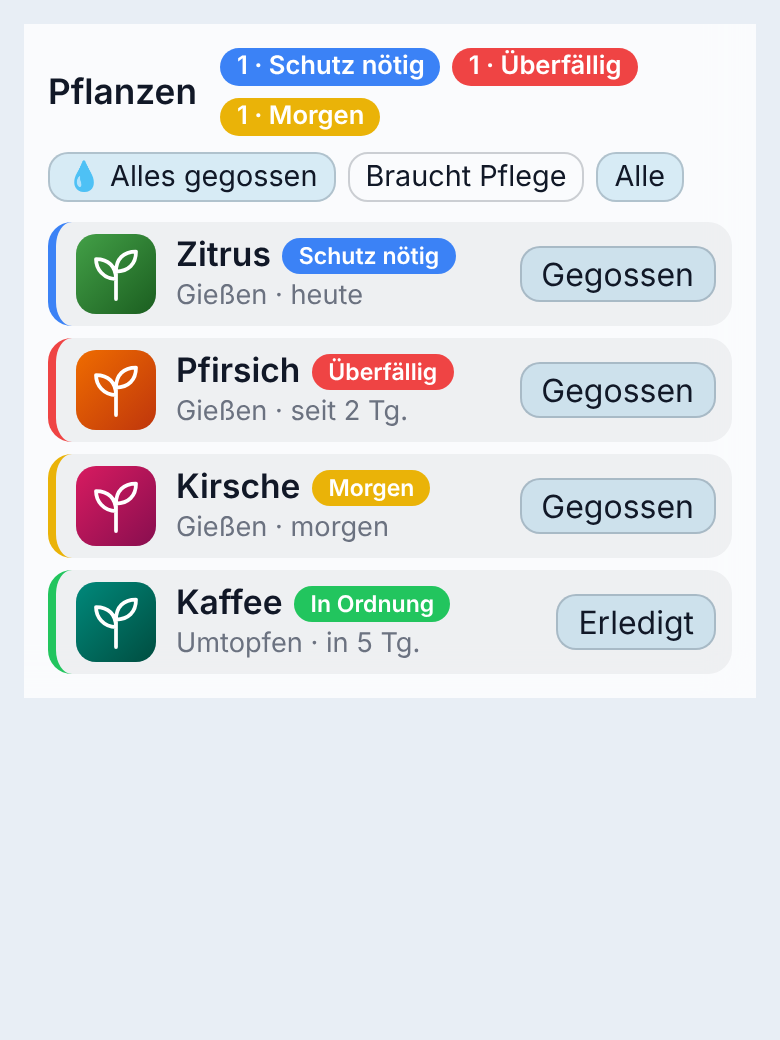
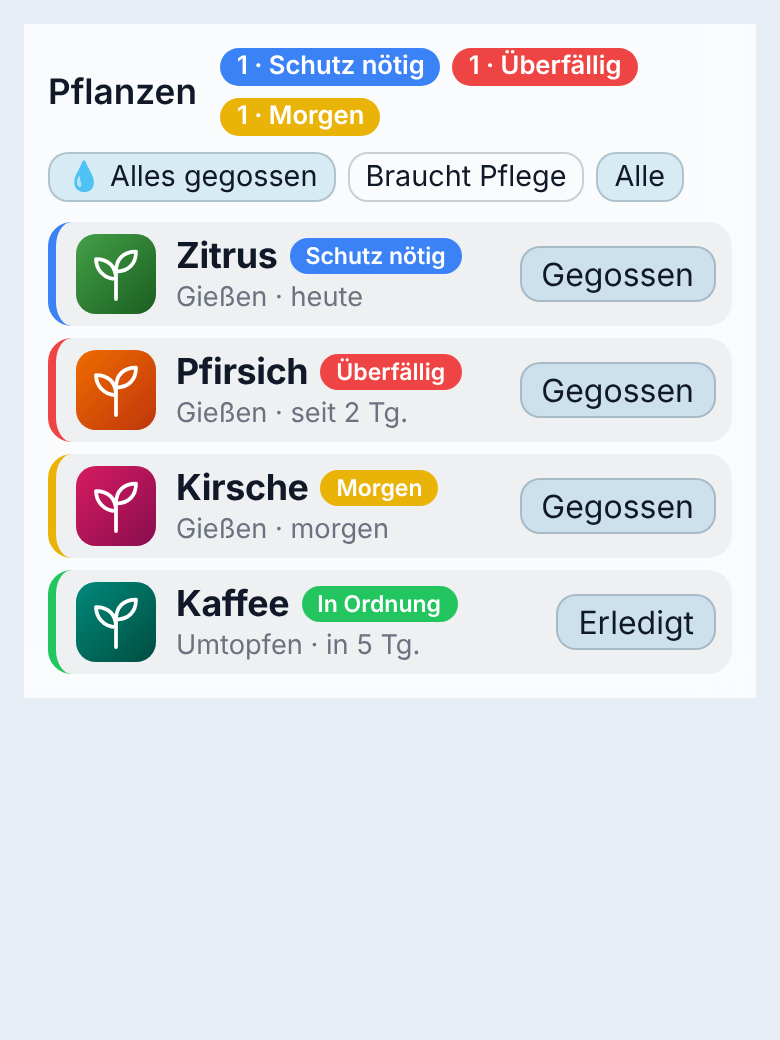
Card: compact tile redesign, flat option, equal-height tiles
Claude-Session: https://claude.ai/code/session_01XDKhdpbGErx8Smh2Ru9UdD

diff --git a/custom_components/rootine/frontend/rootine-card.js b/custom_components/rootine/frontend/rootine-card.js
@@ -17,7 +17,7 @@ const T = {
     reason: { cold_now: "zu kalt", cold_forecast: "Kälte erwartet", heat_now: "zu heiß",
       heat_forecast: "Hitze erwartet", drop: "Wert stark gefallen", stale: "meldet nicht",
       battery_low: "Batterie schwach" },
-    done: "Erledigt", noFertilize: "Düngen", noFertilizeHint: "nicht nötig", noOther: "Weitere Aufgaben", tabOverview: "Übersicht", tabCare: "Pflege", tabLog: "Verlauf", tabProfile: "Steckbrief", noCare: "Noch keine Pflegetexte. Unter „Bearbeiten“ ergänzen.", noOtherHint: "keine", water: "Gegossen", fertilize: "Gedüngt", postpone: "Verschieben",
+    done: "Erledigt", tabOverview: "Übersicht", tabCare: "Pflege", tabLog: "Verlauf", tabProfile: "Steckbrief", noCare: "Noch keine Pflegetexte. Unter „Bearbeiten“ ergänzen.", water: "Gegossen", fertilize: "Gedüngt", postpone: "Verschieben",
     days: (n) => (n === 0 ? "heute" : n === 1 ? "morgen" : n < 0 ? `seit ${-n} Tg.` : `in ${n} Tg.`),
     details: "Details", close: "Schließen", edit: "Bearbeiten", save: "Speichern", cancel: "Abbrechen",
     photo: "Foto ändern", history: "Verlauf", undo: "Rückgängig", undone: "rückgängig",
@@ -45,7 +45,7 @@ const T = {
     reason: { cold_now: "too cold", cold_forecast: "cold expected", heat_now: "too hot",
       heat_forecast: "heat expected", drop: "value dropped", stale: "not reporting",
       battery_low: "battery low" },
-    done: "Done", noFertilize: "Fertilize", noFertilizeHint: "not needed", noOther: "Other tasks", tabOverview: "Overview", tabCare: "Care", tabLog: "History", tabProfile: "Profile", noCare: "No care notes yet. Add them under Edit.", noOtherHint: "none", water: "Watered", fertilize: "Fertilized", postpone: "Postpone",
+    done: "Done", tabOverview: "Overview", tabCare: "Care", tabLog: "History", tabProfile: "Profile", noCare: "No care notes yet. Add them under Edit.", water: "Watered", fertilize: "Fertilized", postpone: "Postpone",
     days: (n) => (n === 0 ? "today" : n === 1 ? "tomorrow" : n < 0 ? `${-n}d overdue` : `in ${n}d`),
     details: "Details", close: "Close", edit: "Edit", save: "Save", cancel: "Cancel",
     photo: "Change photo", history: "History", undo: "Undo", undone: "undone",
@@ -107,34 +107,60 @@ ha-card { padding: 12px; overflow: hidden; background: var(--ha-card-background,
 .head { display: flex; flex-wrap: wrap; align-items: center; gap: 8px 12px; margin-bottom: 10px; }
 .head .summary { flex: 1; }
 .head h2 { margin: 0; font-size: 1.1em; font-weight: 600; }
-.grid { display: grid; grid-template-columns: repeat(auto-fit, minmax(330px, 1fr)); gap: 10px; }
-.plant { --accent: var(--primary-color); position: relative; display: flex; flex-direction: column; gap: 8px; padding: 12px 12px 10px 16px; border-radius: 16px; overflow: hidden;
-  transition: transform .15s ease, box-shadow .15s ease;
+.grid { display: grid; grid-template-columns: repeat(auto-fit, minmax(280px, 1fr)); gap: 10px; }
+ha-card.flat { padding: 0; background: none; border: none; box-shadow: none; backdrop-filter: none; overflow: visible; height: 100%; box-sizing: border-box; }
+:host { height: 100%; }
+.plant { --accent: var(--primary-color); position: relative; display: flex; flex-direction: column; gap: 10px; padding: 14px 14px 12px; border-radius: 20px; overflow: hidden;
+  height: 100%; box-sizing: border-box; isolation: isolate;
+  transition: transform .18s ease, box-shadow .18s ease, border-color .18s ease;
   background: color-mix(in srgb, var(--primary-text-color) 5%, transparent);
   border: 1px solid color-mix(in srgb, var(--primary-text-color) 10%, transparent); }
-.plant::before { content: ""; position: absolute; left: 0; top: 0; bottom: 0; width: 5px; background: var(--accent); }
-.plant:hover { transform: translateY(-1px); box-shadow: 0 6px 18px rgba(0,0,0,.18); }
+.plant::before { content: ""; position: absolute; inset: 0; z-index: -1;
+  background: radial-gradient(120% 90% at 0% 0%, color-mix(in srgb, var(--accent) 26%, transparent), transparent 62%); }
+.plant .bgimg { position: absolute; inset: -24px; z-index: -2; background-size: cover; background-position: center; filter: blur(26px) saturate(1.4); opacity: .22; }
+.plant:hover { transform: translateY(-2px); border-color: color-mix(in srgb, var(--accent) 55%, transparent);
+  box-shadow: 0 10px 26px rgba(0,0,0,.28), 0 0 0 1px color-mix(in srgb, var(--accent) 25%, transparent); }
 .summary { display: flex; gap: 6px; flex-wrap: wrap; }
-.bar { position: relative; height: 8px; border-radius: 6px; background: color-mix(in srgb, var(--primary-text-color) 12%, transparent); }
-.bar .fill { position: absolute; left: 0; top: 0; bottom: 0; border-radius: 6px; background: var(--accent); transition: width .4s ease; }
-.bar .mark { position: absolute; top: -3px; bottom: -3px; width: 2px; background: var(--primary-text-color); opacity: .75; border-radius: 1px; }
-.barlabel { display: flex; justify-content: space-between; font-size: .78em; color: var(--secondary-text-color); margin-top: 2px; }
-.top { display: flex; gap: 10px; align-items: center; }
-.pic { width: 56px; height: 56px; border-radius: 12px; object-fit: cover; flex: none;
+.top { display: flex; gap: 12px; align-items: center; }
+.pic { position: relative; width: 56px; height: 56px; border-radius: 16px; object-fit: cover; flex: none;
   background: color-mix(in srgb, var(--primary-text-color) 10%, transparent);
-  display: flex; align-items: center; justify-content: center; font-size: 28px; }
+  display: flex; align-items: center; justify-content: center; font-size: 28px;
+  box-shadow: 0 0 0 2px var(--accent), 0 6px 16px rgba(0,0,0,.3); }
 .title { flex: 1; min-width: 0; }
-.name { font-weight: 600; font-size: 1.05em; white-space: nowrap; overflow: hidden; text-overflow: ellipsis; }
-.sub { color: var(--secondary-text-color); font-size: .85em; display: -webkit-box; -webkit-line-clamp: 2;
-  -webkit-box-orient: vertical; overflow: hidden; }
+.name { font-weight: 700; font-size: 1.12em; letter-spacing: -.01em; white-space: nowrap; overflow: hidden; text-overflow: ellipsis; }
+.sub { color: var(--secondary-text-color); font-size: .82em; white-space: nowrap; overflow: hidden; text-overflow: ellipsis; }
 .chip { display: inline-flex; align-items: center; gap: 4px; padding: 2px 8px; border-radius: 999px;
   font-size: .8em; font-weight: 600; color: #fff; white-space: nowrap; }
-.tasks { display: flex; flex-direction: column; gap: 4px; }
-.task { display: flex; align-items: center; gap: 8px; font-size: .92em; min-height: 30px; }
-.task .label { flex: 1; min-width: 3.5em; }
-.task.none { opacity: .7; }
-.task.none .when { margin-right: 4px; }
-.task .when { color: var(--secondary-text-color); font-size: .85em; white-space: nowrap; }
+.duo { display: grid; grid-template-columns: 1fr 1fr; gap: 8px; }
+.mt { --c: var(--secondary-text-color); display: flex; align-items: center; gap: 6px; padding: 7px 7px 7px 11px; border-radius: 14px; min-width: 0;
+  background: color-mix(in srgb, var(--primary-text-color) 7%, transparent); border: 1px solid transparent; }
+.mt:only-child { grid-column: span 2; }
+.mt .mtx { flex: 1; min-width: 0; display: flex; flex-direction: column; line-height: 1.2; }
+.mt .k { font-size: .78em; color: var(--secondary-text-color); white-space: nowrap; overflow: hidden; text-overflow: ellipsis; }
+.mt .v { font-weight: 650; font-size: .95em; color: var(--c); white-space: nowrap; overflow: hidden; text-overflow: ellipsis; }
+.mt.s-ok { --c: var(--primary-text-color); }
+.mt.s-soon { --c: #eab308; }
+.mt.s-due, .mt.s-overdue { --c: #fff; background: var(--accent2); border-color: transparent; animation: glow 2.4s ease-in-out infinite; }
+.mt.s-due { --accent2: #f59e0b; } .mt.s-overdue { --accent2: #ef4444; }
+.mt.s-due .k, .mt.s-overdue .k { color: rgba(255,255,255,.85); }
+.mt.s-rest { opacity: .62; }
+@keyframes glow { 50% { box-shadow: 0 0 0 4px color-mix(in srgb, var(--accent2) 30%, transparent); } }
+.mt button.go { width: 30px; height: 30px; padding: 0; border-radius: 50%; flex: none; font-size: 1em; line-height: 1;
+  display: inline-flex; align-items: center; justify-content: center; }
+.mt.s-due button.go, .mt.s-overdue button.go { background: rgba(255,255,255,.22); border-color: rgba(255,255,255,.35); color: #fff; }
+.foot button.link { border-color: transparent; background: transparent; color: var(--secondary-text-color); padding: 3px 4px; flex: none; }
+.foot button.link:hover { color: var(--primary-text-color); background: transparent; }
+.foot { display: flex; align-items: center; gap: 8px; margin-top: auto; min-height: 30px; }
+.foot .more { flex: 1; min-width: 0; display: flex; align-items: center; justify-content: flex-end; gap: 6px; font-size: .84em; color: var(--secondary-text-color); }
+.foot .more .t { min-width: 0; overflow: hidden; text-overflow: ellipsis; white-space: nowrap; }
+.foot .more button.go { width: 26px; height: 26px; padding: 0; border-radius: 50%; flex: none; display: inline-flex; align-items: center; justify-content: center; }
+.chip.st { margin-top: 3px; max-width: 100%; overflow: hidden; text-overflow: ellipsis; }
+.title { display: flex; flex-direction: column; align-items: flex-start; }
+.title > .name, .title > .sub { max-width: 100%; }
+.moist { position: absolute; left: 0; right: 0; bottom: 0; height: 4px; background: color-mix(in srgb, var(--primary-text-color) 12%, transparent); }
+.moist .fill { position: absolute; left: 0; top: 0; bottom: 0; background: var(--accent); transition: width .4s ease; }
+.moist .mark { position: absolute; top: -2px; bottom: 0; width: 2px; background: var(--primary-text-color); opacity: .8; }
+.sr { position: absolute; width: 1px; height: 1px; overflow: hidden; clip: rect(0 0 0 0); white-space: nowrap; }
 button, select, input, textarea { font: inherit; color: inherit; }
 button { cursor: pointer; border: 1px solid color-mix(in srgb, var(--primary-text-color) 20%, transparent);
   background: color-mix(in srgb, var(--primary-color) 14%, transparent); border-radius: 10px;
@@ -333,7 +359,7 @@ class RootineCard extends HTMLElement {
            <button class="${this._filter === "all" ? "" : "ghost"}" data-filter="all">${t.all}</button></div></div>`
       : "";
     const keep = this.shadowRoot.querySelector(".dialog .body")?.scrollTop || 0;
-    this.shadowRoot.innerHTML = `<style>${STYLE}</style><ha-card class="${this._compact ? "compact" : ""}">${head}${body}</ha-card>${this._dialog ? this._dialogHtml() : ""}${this._confirm ? this._confirmHtml() : ""}`;
+    this.shadowRoot.innerHTML = `<style>${STYLE}</style><ha-card class="${this._compact ? "compact" : ""}${this._config.flat ? " flat" : ""}">${head}${body}</ha-card>${this._dialog ? this._dialogHtml() : ""}${this._confirm ? this._confirmHtml() : ""}`;
     if (keep) { const dlg = this.shadowRoot.querySelector(".dialog .body"); if (dlg) dlg.scrollTop = keep; }
     this._bind();
     if (this._dialog) this._afterDialog();
@@ -403,32 +429,43 @@ class RootineCard extends HTMLElement {
     return `<span class="chip" style="background:${COLORS[status] || COLORS.unknown}">${esc(this._t.status[status] || status)}</span>`;
   }
 
+  _taskTile(p, item) {
+    const t = this._t, core = !item.oneoff && (item.key === "water" || item.key === "fertilize");
+    const ico = core ? (item.key === "water" ? "💧" : "🌿") : "✔";
+    const val = this._when(item) || t.status[item.status] || "";
+    const verb = this._verb(item);
+    return `<div class="mt s-${esc(item.status)}"><div class="mtx"><span class="k">${ico} ${esc(item.name)}</span><span class="v">${esc(val)}</span></div>
+      <button class="go" data-done="${esc(item.key)}" data-plant="${esc(p.id)}" title="${esc(verb)}" aria-label="${esc(verb)}">✓</button></div>`;
+  }
+
   _plantHtml(p) {
     const t = this._t, a = p.attrs;
     const pic = a.entity_picture ? `<img class="pic" src="${esc(a.entity_picture)}" alt="">` : `<div class="pic">🌱</div>`;
+    const bg = a.entity_picture ? `<div class="bgimg" style="background-image:url('${esc(a.entity_picture)}')"></div>` : "";
     const sub = [a.profile.common_name, a.profile.cultivar && `'${a.profile.cultivar}'`].filter(Boolean).join(" ");
-    const warns = (a.warnings || []).map((w) =>
-      `<span class="chip" style="background:${COLORS[w.key === "sensor_check" ? "check_sensor" : w.key]}" title="${esc(t.reason[w.reason] || "")}">${esc(t.warn[w.key])}${w.reason ? ` · ${esc(t.reason[w.reason] || w.reason)}` : ""}</span>`).join("");
-    const row = (item, extra = "") => `<div class="task">${this._chip(item.status)}<span class="label">${esc(item.name)}${extra}</span>
-        <span class="when">${esc(this._when(item))}</span><button data-done="${esc(item.key)}" data-plant="${esc(p.id)}">${esc(this._verb(item))}</button></div>`;
-    const hint = (label, text) => `<div class="task none"><span class="chip" style="background:${COLORS.rest}">${esc(t.status.rest || "")}</span><span class="label">${esc(label)}</span><span class="when">${esc(text)}</span></div>`;
-    // every card has the same three rows so the cards in a grid are equally tall:
-    // watering, fertilizing (or a hint) and the most urgent other task (or a hint)
+    // the status chip sits under the name and carries the warning reason, if there is one
+    const warnText = (a.warnings || []).map((w) => `${t.warn[w.key]}${w.reason ? ` · ${t.reason[w.reason] || w.reason}` : ""}`).join(" · ");
+    // two tiles: watering and fertilizing; missing ones are left out, other tasks fill up the slots
     const items = this._items(a);
-    const isCore = (i) => !i.oneoff && (i.key === "water" || i.key === "fertilize");
-    const others = items.filter((i) => !isCore(i));
-    const urgent = others.length ? this._urgent(others) : null;
-    const tasks = items.filter((i) => !i.oneoff && i.key === "water").map((i) => row(i)).join("")
-      + (a.tasks?.fertilize ? row(items.find((i) => !i.oneoff && i.key === "fertilize")) : hint(t.noFertilize, t.noFertilizeHint))
-      + (urgent ? row(urgent, others.length > 1 ? ` <span class="muted">+${others.length - 1}</span>` : "") : hint(t.noOther, t.noOtherHint));
+    const core = ["water", "fertilize"].map((k) => items.find((i) => !i.oneoff && i.key === k)).filter(Boolean);
+    const rest = items.filter((i) => !core.includes(i)).sort((x, y) => RANK.indexOf(x.status) * 1000 + (x.days ?? 999) - (RANK.indexOf(y.status) * 1000 + (y.days ?? 999)));
+    const tiles = [...core, ...rest.slice(0, Math.max(0, 2 - core.length))];
+    const more = rest.slice(Math.max(0, 2 - core.length));
+    const next = more[0];
+    const moreHtml = next
+      ? `<div class="more"><span class="t"><b>${esc(next.name)}</b>${this._when(next) ? ` · ${esc(this._when(next))}` : ""}${more.length > 1 ? ` · +${more.length - 1}` : ""}</span>
+          <button class="go" data-done="${esc(next.key)}" data-plant="${esc(p.id)}" title="${esc(this._verb(next))}" aria-label="${esc(this._verb(next))}">✓</button></div>`
+      : `<div class="more"></div>`;
     const m = a.moisture;
-    const bar = m && m.value != null
-      ? `<div><div class="bar"><div class="fill" style="width:${Math.max(0, Math.min(100, m.value))}%"></div>${m.threshold != null ? `<div class="mark" style="left:${m.threshold}%" title="${esc(t.threshold)} ${m.threshold} %"></div>` : ""}</div>
-         <div class="barlabel"><span>${esc(t.eval)} ${Math.round(m.value)} %</span><span>${m.threshold != null ? `${esc(t.threshold)} ${m.threshold} %` : ""}</span></div></div>` : "";
-    return `<div class="plant" style="--accent:${COLORS[p.state] || COLORS.unknown}"><div class="top">${pic}<div class="title"><div class="name">${esc(p.name)}</div>
-      <div class="sub">${esc(sub || "")} · ${esc(t[a.location] || a.location)}</div></div>${this._chip(p.state)}</div>
-      ${warns ? `<div class="warn">${warns}</div>` : ""}${bar}<div class="tasks">${tasks}</div>
-      <div class="actions"><button class="ghost" data-details="${esc(p.id)}">${t.details}</button></div></div>`;
+    const moist = m && m.value != null
+      ? `<div class="moist" title="${esc(t.eval)} ${Math.round(m.value)} %${m.threshold != null ? ` · ${esc(t.threshold)} ${m.threshold} %` : ""}"><div class="fill" style="width:${Math.max(0, Math.min(100, m.value))}%"></div>${m.threshold != null ? `<div class="mark" style="left:${m.threshold}%"></div>` : ""}</div>
+         <span class="sr">${esc(t.eval)} ${Math.round(m.value)} %${m.threshold != null ? ` · ${esc(t.threshold)} ${m.threshold} %` : ""}</span>` : "";
+    const chip = ["ok", "rest", "unknown"].includes(p.state) ? ""
+      : `<span class="chip st" style="background:${COLORS[p.state] || COLORS.unknown}">${esc(warnText || t.status[p.state] || p.state)}</span>`;
+    return `<div class="plant" style="--accent:${COLORS[p.state] || COLORS.unknown}">${bg}<div class="top">${pic}<div class="title"><div class="name">${esc(p.name)}</div>
+      <div class="sub">${esc(sub || "")}</div>${chip}</div></div>
+      ${tiles.length ? `<div class="duo">${tiles.map((i) => this._taskTile(p, i)).join("")}</div>` : ""}
+      <div class="foot"><button class="ghost link" data-details="${esc(p.id)}">${t.details} ›</button>${moreHtml}</div>${moist}</div>`;
   }
 
   _bind() {

diff --git a/custom_components/rootine/const.py b/custom_components/rootine/const.py
@@ -3,7 +3,7 @@
 from __future__ import annotations
 
 DOMAIN = "rootine"
-VERSION = "1.2.4"  # keep in sync with manifest.json
+VERSION = "1.3.0"  # keep in sync with manifest.json
 SUBENTRY_PLANT = "plant"
 
 # Haupteintrag (Optionen)

diff --git a/CHANGELOG.md b/CHANGELOG.md
@@ -1,5 +1,14 @@
 # Changelog
 
+## 1.3.0
+
+**Neu**
+
+- Neue, kompakte Pflanzenkachel: Foto, Name und Art oben, darunter zwei Kacheln für Gießen und Düngen mit Fälligkeit und Haken zum Erledigen. Fällige Aufgaben leuchten in Orange, überfällige in Rot. Das Foto scheint weichgezeichnet durch den Hintergrund.
+- Nur noch, was nötig ist: kein „In Ordnung“-Schild, keine leeren Zeilen. Fehlt der Düngeplan, bleibt die Kachel weg. Weitere und einmalige Aufgaben stehen unten rechts mit eigenem Haken, bei mehreren mit „+n“.
+- Alle Kacheln im Raster sind gleich hoch. Die Feuchte steht als dünner Balken mit Gieß-Schwelle am unteren Rand.
+- Neue Karten-Option `flat: true`: lässt den äußeren Kartenrahmen weg, sodass die Kachel in Rastern ohne Zusatz-Styling sauber aussieht.
+
 ## 1.2.4
 
 **Geändert**

diff --git a/README.md b/README.md
@@ -211,6 +211,15 @@ mode: overview
 layout: compact                       # eine Zeile pro Pflanze, fürs Handy
 ```
 
+Mit `flat: true` entfällt der äußere Kartenrahmen. Das ist praktisch, wenn du jede Pflanze als eigene Karte in ein
+Raster (z. B. mit auto-entities) legst:
+
+```yaml
+type: custom:rootine-card
+entity: sensor.zitrone_pflegestatus
+flat: true
+```
+
 <picture>
   <source media="(prefers-color-scheme: dark)" srcset="images/card-detail-dark.png">
   <img alt="Detailansicht mit Steckbrief, Diagramm und Verlauf" src="images/card-detail-light.png" width="720">
